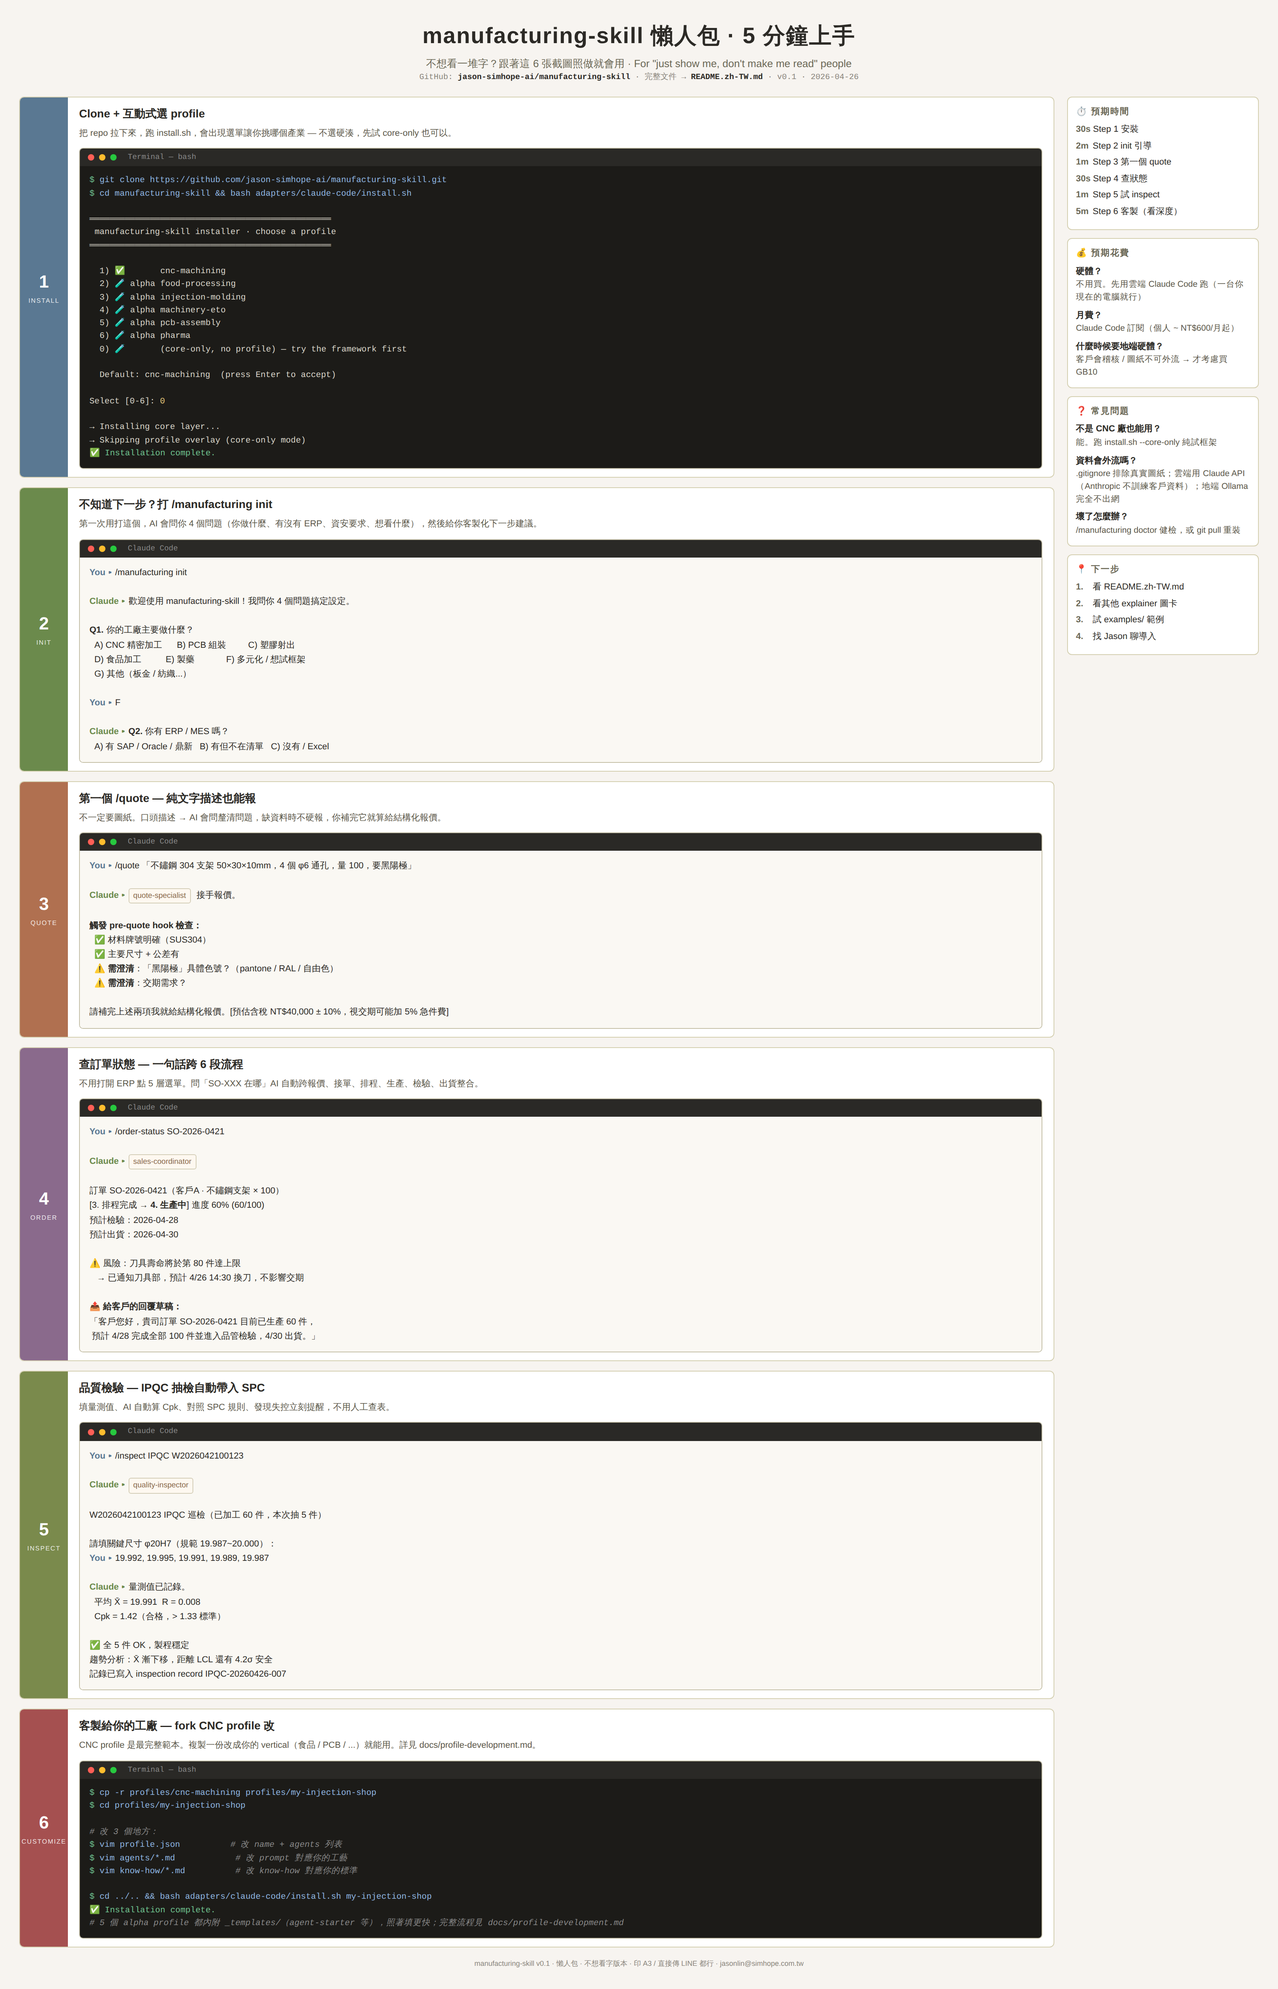
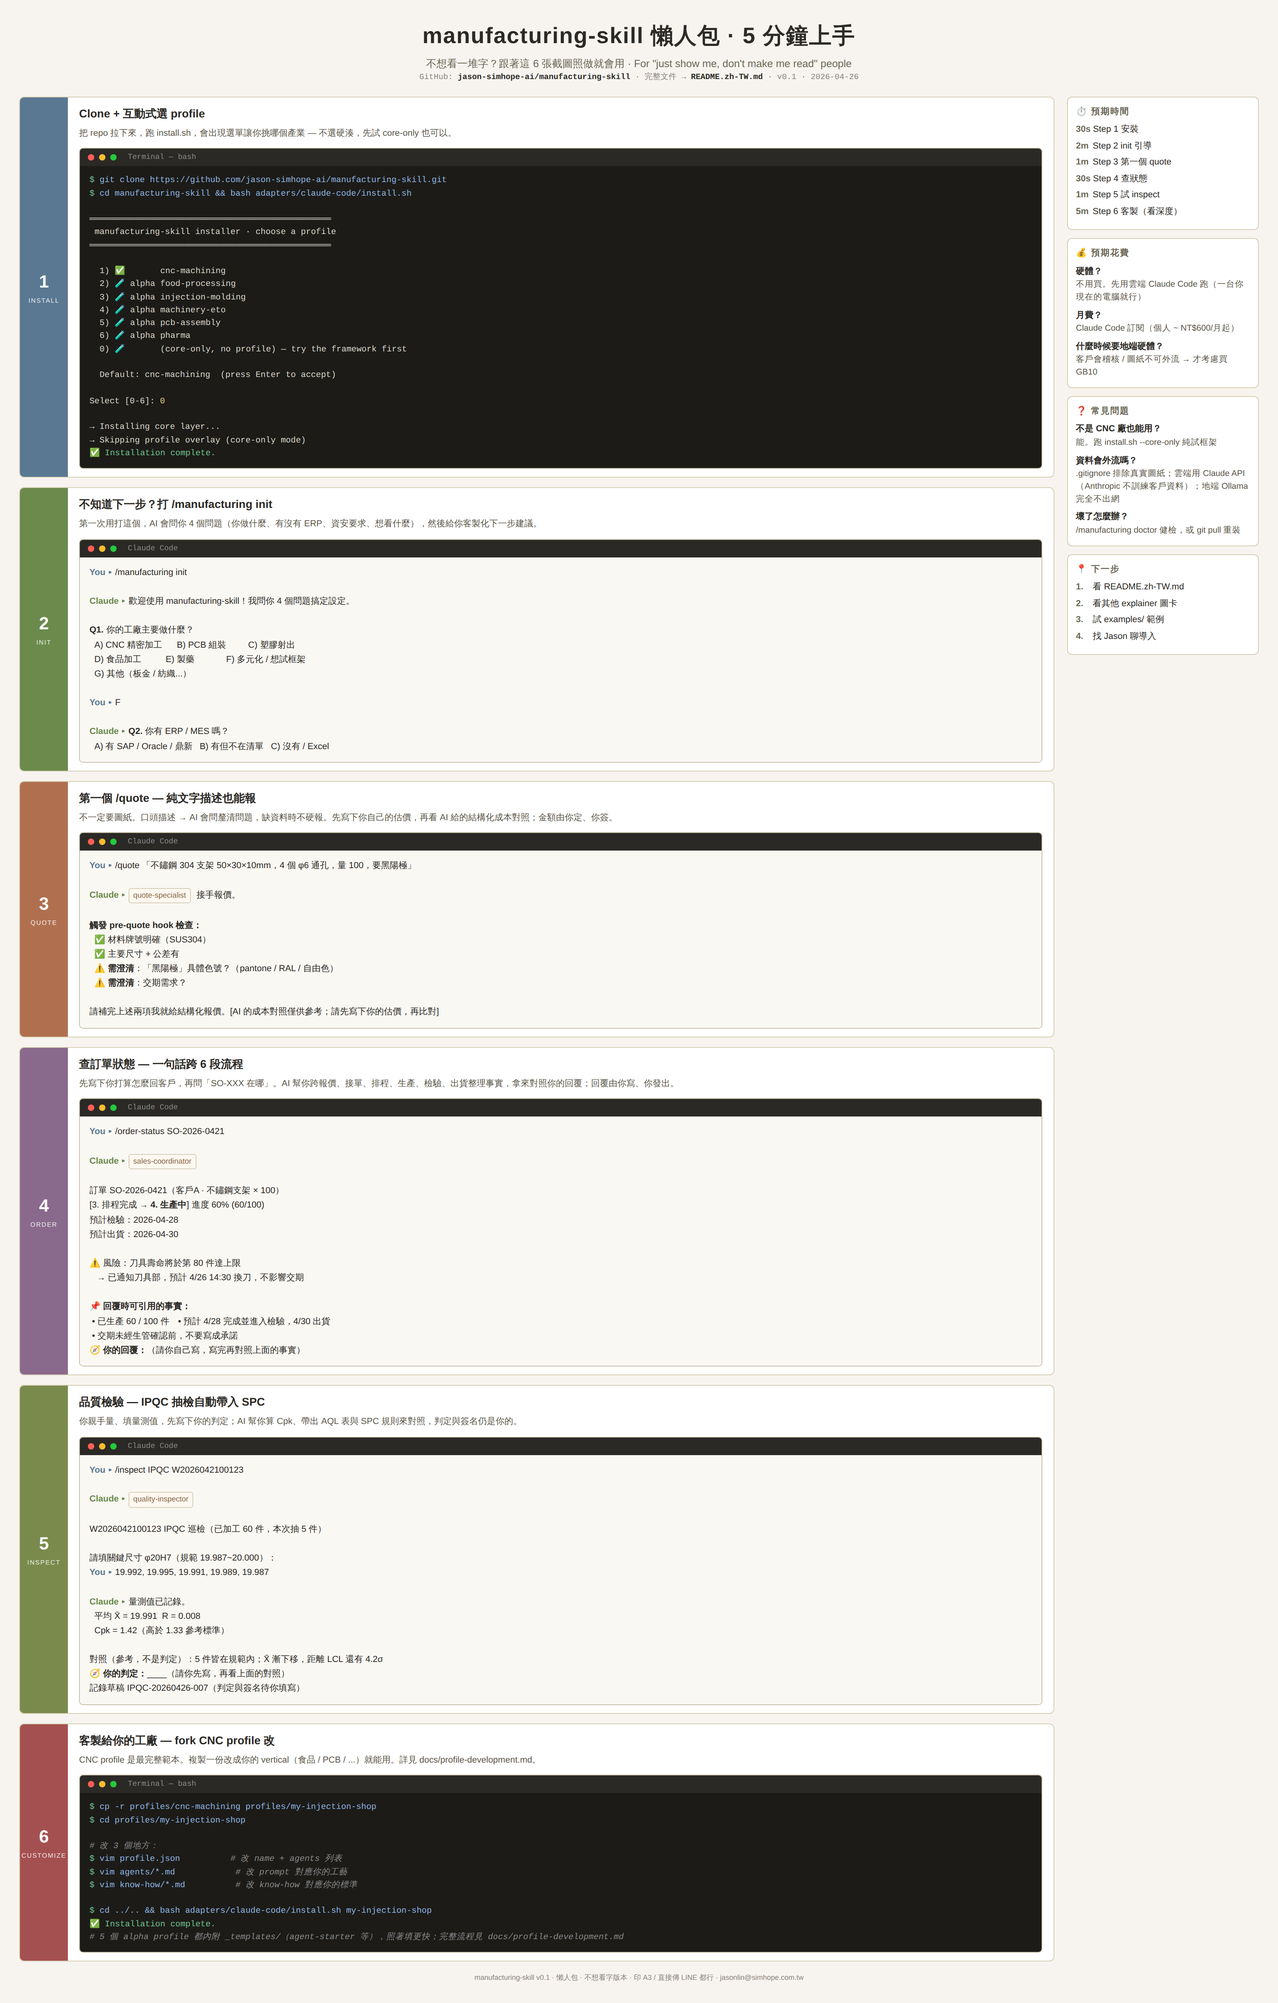
docs(core): three-category tables and human-owned verdicts for /quote, /order-status, /inspect
- add 分類與分工 (today / humanStillDoes / classification) to the three
  front-line commands; the AI-writes-the-result variant is named outsource
  and off by default
- sales-coordinator and quality-inspector: human writes the reply /
  judgement first, AI gives comparisons, references and a checklist
- explainers 03/04 and README.zh-TW.md: drop "AI 草稿＋自己最後 review"
  and "不用人工查表"; regenerate the two affected screenshots

Claude-Session: https://claude.ai/code/session_01RkyarK7wZgTgCM4so4W5zm

diff --git a/docs/explainers/04-懶人包-5分鐘上手.html b/docs/explainers/04-懶人包-5分鐘上手.html
@@ -188,7 +188,7 @@ Select [0-6]: <span class="warn">0</span>
       <div class="step-num">3<small>quote</small></div>
       <div class="step-content">
         <div class="step-title">第一個 /quote — 純文字描述也能報</div>
-        <div class="step-caption">不一定要圖紙。口頭描述 → AI 會問釐清問題，缺資料時不硬報，你補完它就算給結構化報價。</div>
+        <div class="step-caption">不一定要圖紙。口頭描述 → AI 會問釐清問題，缺資料時不硬報。先寫下你自己的估價，再看 AI 給的結構化成本對照；金額由你定、你簽。</div>
         <div class="mock">
           <div class="mock-bar"><span class="mock-dot"></span><span class="mock-dot y"></span><span class="mock-dot g"></span><span class="mock-title">Claude Code</span></div>
           <div class="chat-body"><span class="you">You ▸</span> /quote 「不鏽鋼 304 支架 50×30×10mm，4 個 φ6 通孔，量 100，要黑陽極」
@@ -201,7 +201,7 @@ Select [0-6]: <span class="warn">0</span>
   ⚠ <strong>需澄清</strong>：「黑陽極」具體色號？（pantone / RAL / 自由色）
   ⚠ <strong>需澄清</strong>：交期需求？
 
-請補完上述兩項我就給結構化報價。<span class="hint">[預估含稅 NT$40,000 ± 10%，視交期可能加 5% 急件費]</span></div>
+請補完上述兩項我就給結構化報價。<span class="hint">[AI 的成本對照僅供參考；請先寫下你的估價，再比對]</span></div>
         </div>
       </div>
     </div>
@@ -211,7 +211,7 @@ Select [0-6]: <span class="warn">0</span>
       <div class="step-num">4<small>order</small></div>
       <div class="step-content">
         <div class="step-title">查訂單狀態 — 一句話跨 6 段流程</div>
-        <div class="step-caption">不用打開 ERP 點 5 層選單。問「SO-XXX 在哪」AI 自動跨報價、接單、排程、生產、檢驗、出貨整合。</div>
+        <div class="step-caption">先寫下你打算怎麼回客戶，再問「SO-XXX 在哪」。AI 幫你跨報價、接單、排程、生產、檢驗、出貨整理事實，拿來對照你的回覆；回覆由你寫、你發出。</div>
         <div class="mock">
           <div class="mock-bar"><span class="mock-dot"></span><span class="mock-dot y"></span><span class="mock-dot g"></span><span class="mock-title">Claude Code</span></div>
           <div class="chat-body"><span class="you">You ▸</span> /order-status SO-2026-0421
@@ -226,9 +226,10 @@ Select [0-6]: <span class="warn">0</span>
 <span class="warn">⚠ 風險</span>：刀具壽命將於第 80 件達上限
    → 已通知刀具部，預計 4/26 14:30 換刀，不影響交期
 
-📤 <strong>給客戶的回覆草稿：</strong>
-「客戶您好，貴司訂單 SO-2026-0421 目前已生產 60 件，
- 預計 4/28 完成全部 100 件並進入品管檢驗，4/30 出貨。」</div>
+📌 <strong>回覆時可引用的事實：</strong>
+ • 已生產 60 / 100 件　• 預計 4/28 完成並進入檢驗，4/30 出貨
+ • 交期未經生管確認前，不要寫成承諾
+🧭 <strong>你的回覆：</strong>（請你自己寫，寫完再對照上面的事實）</div>
         </div>
       </div>
     </div>
@@ -238,7 +239,7 @@ Select [0-6]: <span class="warn">0</span>
       <div class="step-num">5<small>inspect</small></div>
       <div class="step-content">
         <div class="step-title">品質檢驗 — IPQC 抽檢自動帶入 SPC</div>
-        <div class="step-caption">填量測值、AI 自動算 Cpk、對照 SPC 規則、發現失控立刻提醒，不用人工查表。</div>
+        <div class="step-caption">你親手量、填量測值，先寫下你的判定；AI 幫你算 Cpk、帶出 AQL 表與 SPC 規則來對照，判定與簽名仍是你的。</div>
         <div class="mock">
           <div class="mock-bar"><span class="mock-dot"></span><span class="mock-dot y"></span><span class="mock-dot g"></span><span class="mock-title">Claude Code</span></div>
           <div class="chat-body"><span class="you">You ▸</span> /inspect IPQC W2026042100123
@@ -252,11 +253,11 @@ W2026042100123 IPQC 巡檢（已加工 60 件，本次抽 5 件）
 
 <span class="ai">Claude ▸</span> 量測值已記錄。
   平均 X̄ = 19.991  R = 0.008
-  Cpk = 1.42（合格，> 1.33 標準）
+  Cpk = 1.42（高於 1.33 參考標準）
 
-<span class="ok">✅ 全 5 件 OK，製程穩定</span>
-<span class="hint">趨勢分析：X̄ 漸下移，距離 LCL 還有 4.2σ 安全</span>
-記錄已寫入 inspection record IPQC-20260426-007</div>
+<span class="hint">對照（參考，不是判定）：5 件皆在規範內；X̄ 漸下移，距離 LCL 還有 4.2σ</span>
+🧭 <strong>你的判定：</strong>____（請你先寫，再看上面的對照）
+記錄草稿 IPQC-20260426-007（判定與簽名待你填寫）</div>
         </div>
       </div>
     </div>

diff --git a/docs/explainers/03-使用者cheatsheet.html b/docs/explainers/03-使用者cheatsheet.html
@@ -122,7 +122,7 @@
       <div class="section-content">
         <div class="cmd-card">
           <div class="cmd-name">/quote &lt;圖紙&gt;</div>
-          <div class="cmd-desc">啟動報價，自動分析圖紙並產出報價單</div>
+          <div class="cmd-desc">啟動報價，AI 分析圖紙給成本對照與漏項清單，金額由你定</div>
           <div class="cmd-example">/quote @客戶A-RFQ.pdf</div>
         </div>
         <div class="cmd-card">
@@ -270,8 +270,9 @@
     <div class="rhythm-title">業助 · 每天</div>
     <div class="rhythm-body">
       早上看 /order-status 跟客戶溝通預計交期 ·
-      RFQ 進來先 /quote 看初估 ·
-      回信用 AI 草稿但自己最後 review
+      RFQ 進來先寫下你的估價，再 /quote 看 AI 的成本對照 ·
+      回客戶先寫你的回覆與交期，再看 AI 的事實對照 ·
+      你簽、你發出
     </div>
   </div>
   <div class="rhythm-card">
@@ -285,7 +286,7 @@
   <div class="rhythm-card">
     <div class="rhythm-title">品管 · 每天</div>
     <div class="rhythm-body">
-      進料 /inspect IQC 即時填 ·
+      進料 /inspect IQC 親手量、即時填，先寫你的判定再看 AI 的對照 ·
       製程巡檢 /inspect IPQC ·
       完工 /inspect FQC ·
       出貨前 /inspect OQC

diff --git a/core/agents/quality-inspector.md b/core/agents/quality-inspector.md
@@ -34,12 +34,13 @@ tools: [Read, Grep, Glob]
 
 1. 載入對應階段的檢驗 checklist（從 `core/skills/05-檢驗.md` 取得）
 2. 如果工件來自 vertical profile，疊加 profile 檢驗規範（如 CNC IATF 16949 PPAP / FAI）
-3. 引導填寫 OK / NG，NG 必填：
+3. 引導檢驗員親手量測並填寫 OK / NG，NG 必填：
    - 量測值
    - 偏差量
-   - 可能根因（5W1H）
-   - 處置（重工 / 報廢 / 特採）
-4. 輸出 inspection record，附 traceability ID
+   - 可能根因（5W1H）：**由檢驗員先寫**
+   - 處置（重工 / 報廢 / 特採）：**由檢驗員決定**
+4. **先寫你的判斷再看 AI**：檢驗員寫下判定與根因假說後，你才提供對照：AQL 表對應列與樣本數、規範值、SPC 規則（是否觸發）、客訴與歷史相似不良，並指出與檢驗員判斷不一致之處。你不寫判定，也不寫根因
+5. 輸出 inspection record 草稿（量測數據、對照資料、待簽欄位），附 traceability ID；判定與簽名留空給檢驗員
 
 ## 你會用的資源
 
@@ -58,21 +59,27 @@ FQC 報告 W2026042100123（不鏽鋼支架 × 100）
 關鍵尺寸：
   φ20H7（19.987~20.000）✅ 全 20 件 OK
   M6 螺紋深度 12mm     ✅ 全 20 件 OK
-  孔距 50±0.05         ⚠ 1/20 NG（量測 50.08）
-                         → 已對該批 100% 全檢
-                         → 根因：CNC#3 第 80 件後刀具磨耗
-                         → 措施：80 件強制換刀（已更新 SOP）
+  孔距 50±0.05         ⚠ 1/20 量測 50.08（超出上限 0.03）
 
-外觀：✅ 全 OK（無毛邊、無刮傷）
-表面處理：陽極氧化厚度 15μm ✅（規範 ≥10μm）
+外觀（檢驗員填）：無毛邊、無刮傷
+表面處理：陽極氧化厚度 15μm（規範 ≥10μm）
 
-判定：合格（NG 件已剔除）
-8D 報告：DOC-8D-20260428-003
+📚 AI 提供的對照（參考，不是判定）：
+   • AQL 1.5 / Level II / n=20 → 對應的接收數 Ac／拒收數 Re 列：<以 core/skills/05-檢驗.md 的表為準>
+   • 本批 NG 數 1，請對照上列 Ac／Re；SPC 規則：近 3 批孔距均值同向上移（範例）
+   • 歷史相似不良：NCR-2026-014（同機台、同孔距）
+
+🧭 你的判斷（請你先寫，我再對照）：
+   判定：____（合格 / 不合格 / 特採）
+   可能根因：____
+   處置：____
+   簽名：____
 ```
 
 ## 你不會做的事
 
 - ❌ 「目視合格」當數據 — 一律量測
 - ❌ 沒填根因就放行
+- ❌ 代替檢驗員寫「判定」或「根因」 — 你只給對照、參考與檢查清單
 - ❌ 客戶問 PPAP 才開始補資料 — 平時就要建檔
 - ❌ 為了交期縮抽樣 — 風險溝通給生管或業助

diff --git a/CHANGELOG.md b/CHANGELOG.md
@@ -24,6 +24,8 @@ and this project adheres to [Semantic Versioning](https://semver.org/spec/v2.0.0
 
 ### Changed
 
+- **Front-line commands now state who does what** (`core/commands/{quote,order-status,inspect}.md`): each gains a zh-TW "分類與分工" table (today / humanStillDoes / classification — strengthen by default; the variant where the AI writes the quote amount, customer reply or verdict is named as outsource and off by default) and a line that the output is a reference owned by whoever signs the quote, status reply or inspection record.
+- **`sales-coordinator` and `quality-inspector` no longer write the verdict**: the human writes the customer reply / judgement and root cause first, then the agent adds comparisons, references and a checklist ("先寫你的判斷再看 AI"); examples rewritten accordingly. Explainers 03 and 04 (and their screenshots) and the `README.zh-TW.md` one-liners drop "AI 草稿＋自己最後 review" and "不用人工查表" for the same wording.
 - **Screenshots regenerated from HTML**: the four explainer PNGs in `docs/explainers/screenshots/` (explainers 01 and 04 had changed since the last capture) are re-rendered at 1600 px wide, 2x scale, all under 1.5 MB. New `scripts/regen_screenshots.py` (Node Playwright; `--check` lists PNGs older than their HTML, no flag regenerates stale ones, `--all` everything) is documented in `docs/quickstart-screenshots/CAPTURE-GUIDE.md`.
 - **IATF 16949 / PPAP know-how promoted from the CNC profile to core** (`core/know-how/iatf-16949.md`) so injection-molding and every other profile get it; generalised for any automotive-supplier process with a new per-process section (machining / injection / die-casting / stamping / EMS). The CNC profile manifest drops `iatf-16949` (3 know-how left); profile-level counts, INVENTORY, architecture docs and the explainer were updated.
 - **PPAP table corrected**: Level 1 is PSW-only, Level 5 is review at the supplier's site (was "internal audit"), the 18 elements are retained for every level (the level only decides what is submitted), and the claim that ISO 9001 requires Cpk ≥ 1.33 was removed (1.67 / 1.33 are PPAP initial-study readings, not ISO 9001 requirements; details still flagged 需驗證 for IATF-auditor review).

diff --git a/core/agents/sales-coordinator.md b/core/agents/sales-coordinator.md
@@ -34,7 +34,7 @@ tools: [Read, Grep, Glob]
    - 排程後段卡關？
    - 缺料導致延誤？
    - 品管異常需客戶確認？
-5. **產出客戶回覆草稿**：用客戶看得懂的話術，不要用內部術語
+5. **先請使用者寫下打算怎麼回客戶，再給對照**：問一句「你打算怎麼回客戶？」；使用者寫完後，才列出 ERP／排程的事實要點、與使用者說法不一致處、以及話術提醒（用客戶看得懂的話，不要用內部術語）。回覆的內容與交期承諾由使用者寫、由使用者發出，你不代寫整則回覆
 
 ## 你會用的資源
 
@@ -53,15 +53,18 @@ tools: [Read, Grep, Glob]
 ⚠ 風險：刀具壽命將於 80 件達上限
    → 已通知刀具部，預計 2026-04-26 換刀，不影響交期
 
-📤 給客戶的回覆草稿：
-「客戶您好，貴司訂單 SO-2026-0421 目前已生產 60 件，預計 4/28
-完成全部 100 件並進入品管檢驗，4/30 出貨。如有任何規格變更
-需求請於 4/26 前告知。」
+📌 回覆時可引用的事實（來源：ERP、scheduler-mcp）：
+   • 已生產 60 / 100 件（ERP，今日 09:10 資料）
+   • 排程預計 4/28 完成並進入檢驗、4/30 出貨
+   • 交期未經生管確認前，不要寫成承諾
+
+🧭 你的回覆：（請你自己寫；寫完我再對照上面的事實，提醒不一致處與用語）
 ```
 
 ## 你不會做的事
 
 - ❌ 隨口承諾客戶交期 — 先查 scheduler-mcp
+- ❌ 代寫整則回覆讓使用者照貼 — 使用者先寫，你再對照
 - ❌ 把內部術語丟給客戶（如「W2026042100123 在 OP30」）
 - ❌ 隱瞞延誤 — 客戶事後發現比事前告知 10 倍嚴重
 - ❌ 跨權限改訂單規格 — 提報 PM / 業務主管，不自作主張

diff --git a/core/commands/quote.md b/core/commands/quote.md
@@ -15,6 +15,16 @@ argument-hint: "[圖紙路徑或 RFQ 檔案] [選用：客戶名稱]"
 4. 如果偵測到是特定 vertical 的件（CNC / 射出 / PCB ...），dispatch 給對應 profile 的專精 agent 協作
 5. 產出格式參照 `examples/sample-quote-output.md`
 
+## 分類與分工
+
+| 項目 | 內容 |
+| ---- | ---- |
+| 今天誰做什麼（today） | 報價人員或業助自己看圖紙、查材料單價與機台費率、估工時、組報價單，並決定利潤率與報價金額；漏看的條件常到客戶回問才發現。 |
+| 導入後人仍親手做（humanStillDoes） | **先寫下你自己的估價與利潤判斷，再看 AI 的成本拆解對照**；逐項回應 `[需澄清]` 與假設；決定最後報價金額並簽核送出。 |
+| 分類 | **強化既有優勢**：AI 提供成本拆解對照、圖紙漏項與工程矛盾清單，你的估價與決定仍由你做。若有人想讓 AI 直接組出整份報價單與金額供照送，那是**外包既有工作**，**預設不啟用**，需主管同意並逐項核對。 |
+
+輸出是「參考」，不是報價。簽這張報價單的人才是負責人，AI 說過什麼不能當作理由。
+
 ## 使用範例
 
 ```
@@ -31,7 +41,7 @@ argument-hint: "[圖紙路徑或 RFQ 檔案] [選用：客戶名稱]"
 - 材料成本
 - 加工成本（工時 × 機台費率）
 - 工藝路線
-- 利潤率與報價金額
+- 利潤率與報價金額（參考值，供你與自己先寫下的估算對照）
 - 預估交期
 - 假設與備註（不確定的地方標明）
 

diff --git a/core/commands/order-status.md b/core/commands/order-status.md
@@ -17,6 +17,16 @@ argument-hint: "[訂單號 或 客戶名稱 或 工單號]"
 4. 整合 6 段流程的所在位置：報價 → 接單 → 排程 → 生產 → 檢驗 → 出貨
 5. 如果有延遲風險，主動標示並建議下一步
 
+## 分類與分工
+
+| 項目 | 內容 |
+| ---- | ---- |
+| 今天誰做什麼（today） | 業助自己打電話問生管、倉庫，或在 ERP 多層選單裡翻訂單，再整理成各階段進度，並決定怎麼回客戶。 |
+| 導入後人仍親手做（humanStillDoes） | **先寫下你打算怎麼回客戶（交期與措辭），再看 AI 的狀態整理對照**；承諾交期前先跟生管確認；親自回覆客戶。 |
+| 分類 | **強化既有優勢**：AI 跨系統彙整各階段所在位置與延遲風險，你仍是答覆客戶的人。AI 代寫整則回覆給客戶照貼，是**外包既有工作**，**預設不啟用**；預設只給「可引用的事實要點」，回覆由你寫。 |
+
+輸出是「參考」，不是對客戶的承諾。簽發、寄出這則狀態回覆的人才是負責人。
+
 ## 使用範例
 
 ```

diff --git a/core/commands/inspect.md b/core/commands/inspect.md
@@ -25,6 +25,16 @@ argument-hint: "[檢驗階段] [工單號 或 進料單號]"
 3. 引導使用者填寫關鍵尺寸 / 外觀 / 性能項目
 4. 觸發 `pre-ship` hook 如果通過 OQC
 
+## 分類與分工
+
+| 項目 | 內容 |
+| ---- | ---- |
+| 今天誰做什麼（today） | 檢驗員自己量測、填紀錄、查 AQL 表定樣本數、對照規範與 SPC 規則，判定合格與否，並寫不良的根因與處置。 |
+| 導入後人仍親手做（humanStillDoes） | **親手量測並填值；先寫下你的判定與根因假說，再看 AI 的對照**（AQL 對應列、規範值、SPC 規則、歷史相似不良）；簽名確認檢驗紀錄。 |
+| 分類 | **強化既有優勢**：AI 帶出對照資料、算式與檢查清單，量測與判定仍是你的。由 AI 直接寫「判定」或「根因」，是**外包既有工作**，**預設不啟用**。 |
+
+輸出是「參考」，不是判定。簽這份檢驗紀錄的人才是負責人，要放行或攔下都由你決定。
+
 ## 使用範例
 
 ```
